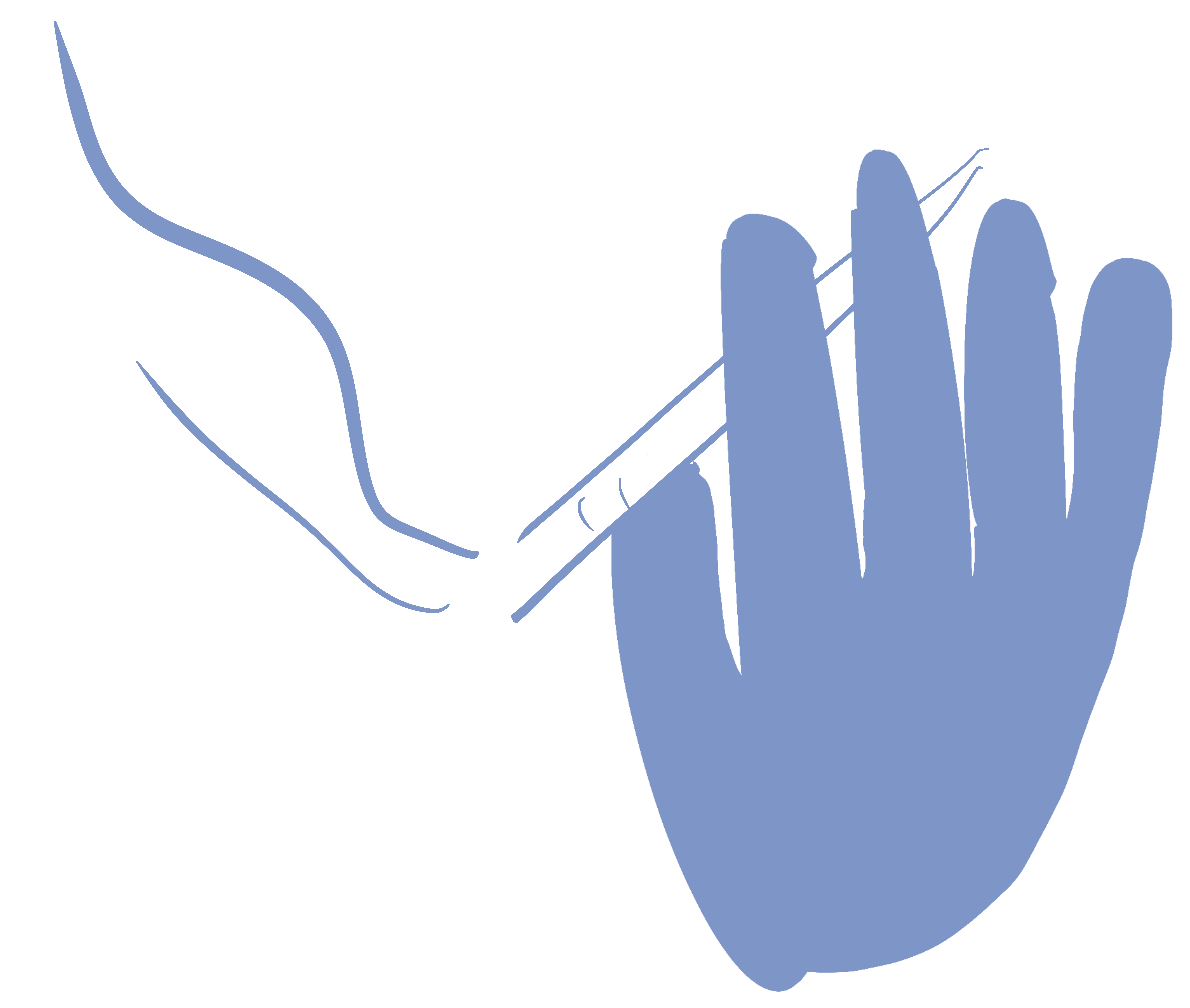
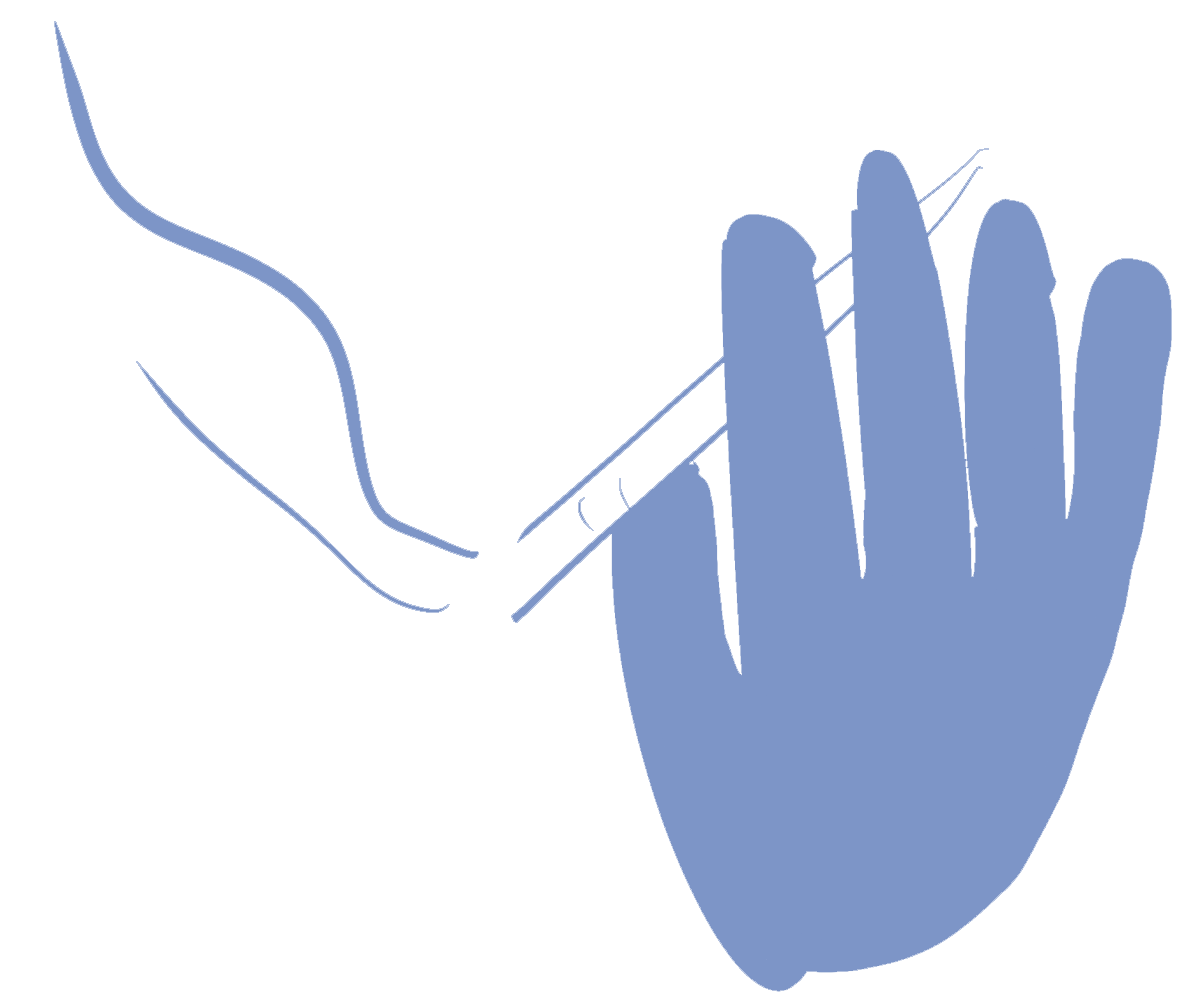
add two and three, fix small visuals

diff --git a/script.js b/script.js
@@ -1,5 +1,7 @@
 //ELEMENTS
 const tan = "#feebca"
+/* const blue
+const gray */
 
 // VIDEOS
 var vidElement = document.getElementById("video")
@@ -35,7 +37,7 @@ function vid(video) {
 }
 
 video.click(() => toggleVid())
-$("#main").click(toggleVid)
+$("#main").click(() => toggleVid())
 
 // JQuery: vidElement.onended = nextVid(), would need to be object instead of DOM element
 vidElement.addEventListener('ended', nextVid)
@@ -44,6 +46,7 @@ function nextVid() {
   vid(videos[activeVideo])
 }
 
+// const toggleVid = () => vidElement.paused ? vidElement.play() : vidElement.pause()
 function toggleVid() { vidElement.paused ? vidElement.play() : vidElement.pause() }
 
 // –––––––––––––––––––––––––––––––––––––––––––––––––––––––––––––––––––––––––––––––
@@ -81,14 +84,22 @@ const description_header = $('#description > h2')
 const buyButton = $('#buyButton')
 const btnContainer = $("#btnContainer")
 
+const oneButton = $('#one')
 const twoButton = $('#two')
 const threeButton = $('#three')
-const TWOplusbutton = $('#TWO+_buy')
-const buttons = [twoButton, threeButton, TWOplusbutton]
+const buttons = [oneButton, twoButton, threeButton]
 let lastButton;
 
 // create some type of media file? although ideally would just get from Shopify (as backend)
 // header, description, price, image/video, 3D model, UGC?
+const one = {
+  'header': 'ONE-PIECE',
+  'description': 'Your trusty sidekick. Everything you need in the smoothest package yet.<br><ul><li>light as a feather</li><li>ample storage</li><li>airtight</li></ul>',
+  'video': '',
+  'link': '',
+  'button': oneButton,
+  'price': '$29'
+}
 const two = {
   'header': 'TWO-PIECE',
   'description': 'Never out of place; fully featured; as portable as possible. This ain\'t your grandpa\'s two-piece. <br><ul><li>top storage</li><li>pocket sized</li><li>no-gunk guide-ring</li></ul>',
@@ -113,6 +124,8 @@ let currentProduct
 /* products.forEach(element => {
   btnContainer.append(element.button)
 }) */
+twoButton.click(() => explore(two))
+threeButton.click(() => explore(three))
 
 function explore(product) {
   if (lastButton == null) {
@@ -124,38 +137,32 @@ function explore(product) {
     vidElement.pause()
     video.css("filter", "blur(6px)")
     buyButton.html('WAITLIST')
+    $('#disclaimer').hide()
   }
   else {
     // if (currentVid != product.video) vid(product.video)
     buyButton.show()
     // vidElement.play()
     video.css("filter", "initial")
-    buyButton.html(`<a href="${product.link}" class="branded" style="text-decoration:none" target="_blank" onclick="toggleVid()">BUY ${product.price}</a>`)
+    $('#disclaimer').hide()
+    buyButton.html(`<a href="${product.link}" class="branded" style="text-decoration:none" target="_blank" onclick="vidElement.pause()">BUY ${product.price}</a>`)
   }
 
-  console.log('other shits')
   currentProduct = product
 
   description_header.html(product.header)
   description_text.html(product.description)
-  // description_text.html("lalalalalal")
-  buttons.forEach(button => button.css("background-color", tan))
-  product.button.css("background-color", "#f2f2f2")
-}
 
-/* document.querySelector('.klaviyo_form_trigger').addEventListener('click', function () {
-  if (currentProduct == three) {
-    window._klOnsite = window._klOnsite || []
-    window._klOnsite.push(['openForm', 'Wef6xU'])
-    console.log('form toggle')
-  }
-}) */
+  buttons.forEach(button => button.css("background-color", tan))
+  buttons.forEach(button => button.children().css("color", "#7196c9"))
+  product.button.css("background-color", "#7196c9")
+  product.button.children().css("color", tan)
+}
 
 $('.klaviyo_form_trigger').click(() => {
   if (currentProduct == three) {
     window._klOnsite = window._klOnsite || []
     window._klOnsite.push(['openForm', 'Wef6xU'])
-    console.log('form toggle')
   }
 })
 
@@ -164,14 +171,13 @@ $('.klaviyo_form_trigger').click(() => {
 // –––––––––––––––––––––––––––––––––––––––––––––––––––––––––––––––––––––––––––––––
 
 // 21+
-$("#21y").click(() => twentyOne())
-$("#21n").click(() => window.open('https://media.tenor.com/ZZEl8q6eRaoAAAAC/shame-game-of-thrones.gif', '_self'))
-function twentyOne() {
+$("#21y").click(() => {
   $('#ageCheck').hide()
   $('#fullBlur').hide()
+  explore(two)
   // toggleVid()
-  explore(three)
-}
+})
+$("#21n").click(() => window.open('https://media.tenor.com/ZZEl8q6eRaoAAAAC/shame-game-of-thrones.gif', '_self'))
 
 // ––––––––––––––––––––––––––––––––––––––APP––––––––––––––––––––––––––––––––––––––
 const appButton = $('#appButton')

diff --git a/index.html b/index.html
@@ -66,11 +66,21 @@
         <div id="disclaimer" style="text-align: center; font-size: 1.75rem; padding: 0.25rem">free 3 week shipping</div>
         <div class="btn-container">
             <!-- <button id="reality" class="text-button" style="">VIRTUAL (ALPHA)</button> -->
-            <button id="buyButton" class="klaviyo_form_trigger branded text-button">BUY $69</button>
-            <!-- <div id="emailSignup" class="klaviyo-form-Wef6xU" style=""></div> -->
+            <button id="buyButton" class="klaviyo_form_trigger branded text-button f2">BUY $69</button>
+        </div>
+        <div id="productButtons" class="btn-container" style="">
+            <button id="one" class="f3" style="display: none">
+                <span class="branded">ONE</span>
+            </button>
+            <button id="two" class="f3">
+                <span class="branded">TWO</span>
+            </button>
+            <button id="three" class="f3">
+                <span class="branded">THREE</span>
+            </button>
         </div>
     </div>
-    <div id="emailSignup" class="klaviyo-form-Wef6xU center" style="display: none"></div>
+    <!-- <div id="emailSignup" class="klaviyo-form-Wef6xU center" style="display: none"></div> -->
 
     <!-- BACKGROUND VIDEO -->
     <video id="video" playsinline style="">
@@ -82,20 +92,18 @@
     </video> -->
 
     <!-- PICTURES -->
-    <!-- <div style="background-color: #fbfbfb;">
-    <img class="center" style="width: 100%; z-index: -1;" src="assets/images/product/2piece-3.png"> </div>
-    <img class="bottom-left" style="width: 20%; z-index: 0;" src="assets/images/drawings/Dial it in.png"> </div>
-    <img class="bottom-right" style="margin: 3rem; width: 20%; z-index: 0;" src="assets/images/drawings/sundial.png"> </div>
-    <img class="bottom-middle" style="margin: 3rem; width: 10rem; z-index: 0;" src="assets/images/drawings/hand joint.png"> </div> -->
+    <!-- <div style="background-color: #fbfbfb;"> -->
+    <!-- <img class="center" style="width: 100%; z-index: -1;" src="assets/images/product/2piece-3.png"> </div> -->
+    <img class="bottom-right" style="margin: 2rem; width: 20%; z-index: 0;" src="assets/images/drawings/be dialed.png">
+    </div>
+    <img class="bottom-left" style="margin: 2rem; width: 15%; z-index: 0;" src="assets/images/drawings/sundial.png">
+    </div>
+    <!-- <img class="bottom-middle" style="margin: 3rem; width: 20%; z-index: 0;" src="assets/images/drawings/hand joint.png"> </div> -->
 
     <!-- BOTTOM BUTTONS -->
     <div class="btn-container">
-        <!-- <button id="back" style="width: auto; padding: 0 1rem 0 1rem;">
-            ←
-        </button> -->
-
         <!-- PRODUCT BUTTONS -->
-        <button id="one" style="display: none">
+        <!-- <button id="one" style="display: none">
             <span class="branded">ONE</span>
             <pre> $29+</pre>
         </button>
@@ -106,7 +114,7 @@
         <button id="three" style="display: none">
             <span class="branded">THREE</span>
             <pre> $99+</pre>
-        </button>
+        </button> -->
 
         <!-- AR BUTTON (source: https://leoncvlt.github.io/ar-button/ )-->
         <!-- <ar-button class = "btn ar-btn"
@@ -119,7 +127,6 @@
             call-to-action="buy"
             no-scale 
             show-if-unsupported
-
             >
             
             <span class="text ar-btn" style="width: auto; margin: 0;">AR</span>
@@ -153,7 +160,8 @@
     <script type="module" src="https://unpkg.com/@leoncvlt/ar-button"></script>
     <link rel="stylesheet" href="https://unpkg.com/@leoncvlt/ar-button/styles.css">
     <!-- <script type="module" src="http://sdks.shopifycdn.com/js-buy-sdk/v2/latest/index.umd.min.js"></script> -->
-    <script async type="text/javascript" src="https://static.klaviyo.com/onsite/js/klaviyo.js?company_id=XUuHGq"></script>
+    <script async type="text/javascript"
+        src="https://static.klaviyo.com/onsite/js/klaviyo.js?company_id=XUuHGq"></script>
     <script type="module" src="https://unpkg.com/@google/model-viewer/dist/model-viewer.min.js"></script>
     <script type="module" src="https://vjs.zencdn.net/7.20.3/video.min.js"></script>
     <script type="text/html" src="https://unpkg.com/browse/videojs-youtube@2.6.0/dist/Youtube.min.js"></script>

diff --git a/style.css b/style.css
@@ -51,19 +51,6 @@ body {
   max-height: -webkit-fill-available;
 }
 
-header {
-  padding: 8px;
-  text-align: center;
-  font-size: 2rem;
-  
-  /* display: grid;
-  grid-template-columns: 1fr 1fr 1fr; */
-  
-  grid-column: 1;
-  grid-row: 1;
-  margin: 0;
-  vertical-align: middle;
-}
 #logo {
   max-width: 16rem;
   margin: 1rem auto auto auto;
@@ -97,26 +84,16 @@ header {
   margin: .25rem;
 }
 
-#main {
-  height: 100vh;
-  /* z-index: 10; */
-  
-  display: grid;
-  position: absolute;
-  grid-template-columns: 1fr;
-  grid-template-rows: auto 1fr auto auto;
-}
-
 .footer { 
   text-align: center;
-  position: relative;
-  /* top: 100vh; */
+  position: absolute;
+  top: 100vh;
   overflow: hidden;
   background-color: #9c9c9c66;
 }
 .footer > span {
   margin: 0;
-  padding: 0 2rem 0 2rem;
+  padding: 0 2rem;
 }
 
 .branded { 
@@ -145,10 +122,10 @@ p {
 pre {
   margin: 0;
 }
-f1 { font-size: 4.5; }
-f2 { font-size: 3.5; }
-f3 { font-size: 2.5; }
-f4 { font-size: 1.5; }
+.f1 { font-size: 4.5rem; }
+.f2 { font-size: 3.5rem; }
+.f3 { font-size: 2.5rem; }
+.f4 { font-size: 1.5rem; }
 
 
 button {
@@ -196,7 +173,6 @@ model-viewer {
 }
 .btn-container > button {
   min-width: 13.75rem;
-  font-size: 3rem;
   margin: 0;
   padding: 1rem 2rem;
   background-color: #feebca;
@@ -204,6 +180,7 @@ model-viewer {
 
 #buyButton {
   background-color: #feebca;
+  width: 100%;
 }
 #pre-order {
   margin: auto auto 0.5rem auto;
@@ -266,7 +243,7 @@ ar-button:before {
 
   width: 24%;
   min-width: 24rem;
-  max-height: 60vh;
+  /* max-height: 60vh; */
   top: 50%;
   right: 0;
   transform: translate(0, -50%);
@@ -282,12 +259,15 @@ ar-button:before {
   margin: 0;
 }
 #description > div > button {
-  width: 100%;
   padding: .5rem 1rem;
 }
-#emailSignup {
-  width: 25rem;
+#productButtons > button {
+  padding: .5rem auto;
+  font-size: 2.5rem;
+  min-width: 0rem;
+  width: 47%;
 }
+
 
 /* POSITIONING */
 .center {
@@ -334,10 +314,10 @@ ar-button:before {
 @media only screen and (max-width: 40rem) {
   h1 { font-size: 3.5rem; }
   h2 { font-size: 2.5rem; }
-  f1 { font-size: 3.5; }
-  f2 { font-size: 2.5; }
-  f3 { font-size: 1.5; }
-  f4 { font-size: 1; }
+  f1 { font-size: 3.5rem; }
+  f2 { font-size: 2.5rem; }
+  f3 { font-size: 1.5rem; }
+  f4 { font-size: 1rem; }
 
   #logo {width: 12rem}
   .app > span { display: none; }
